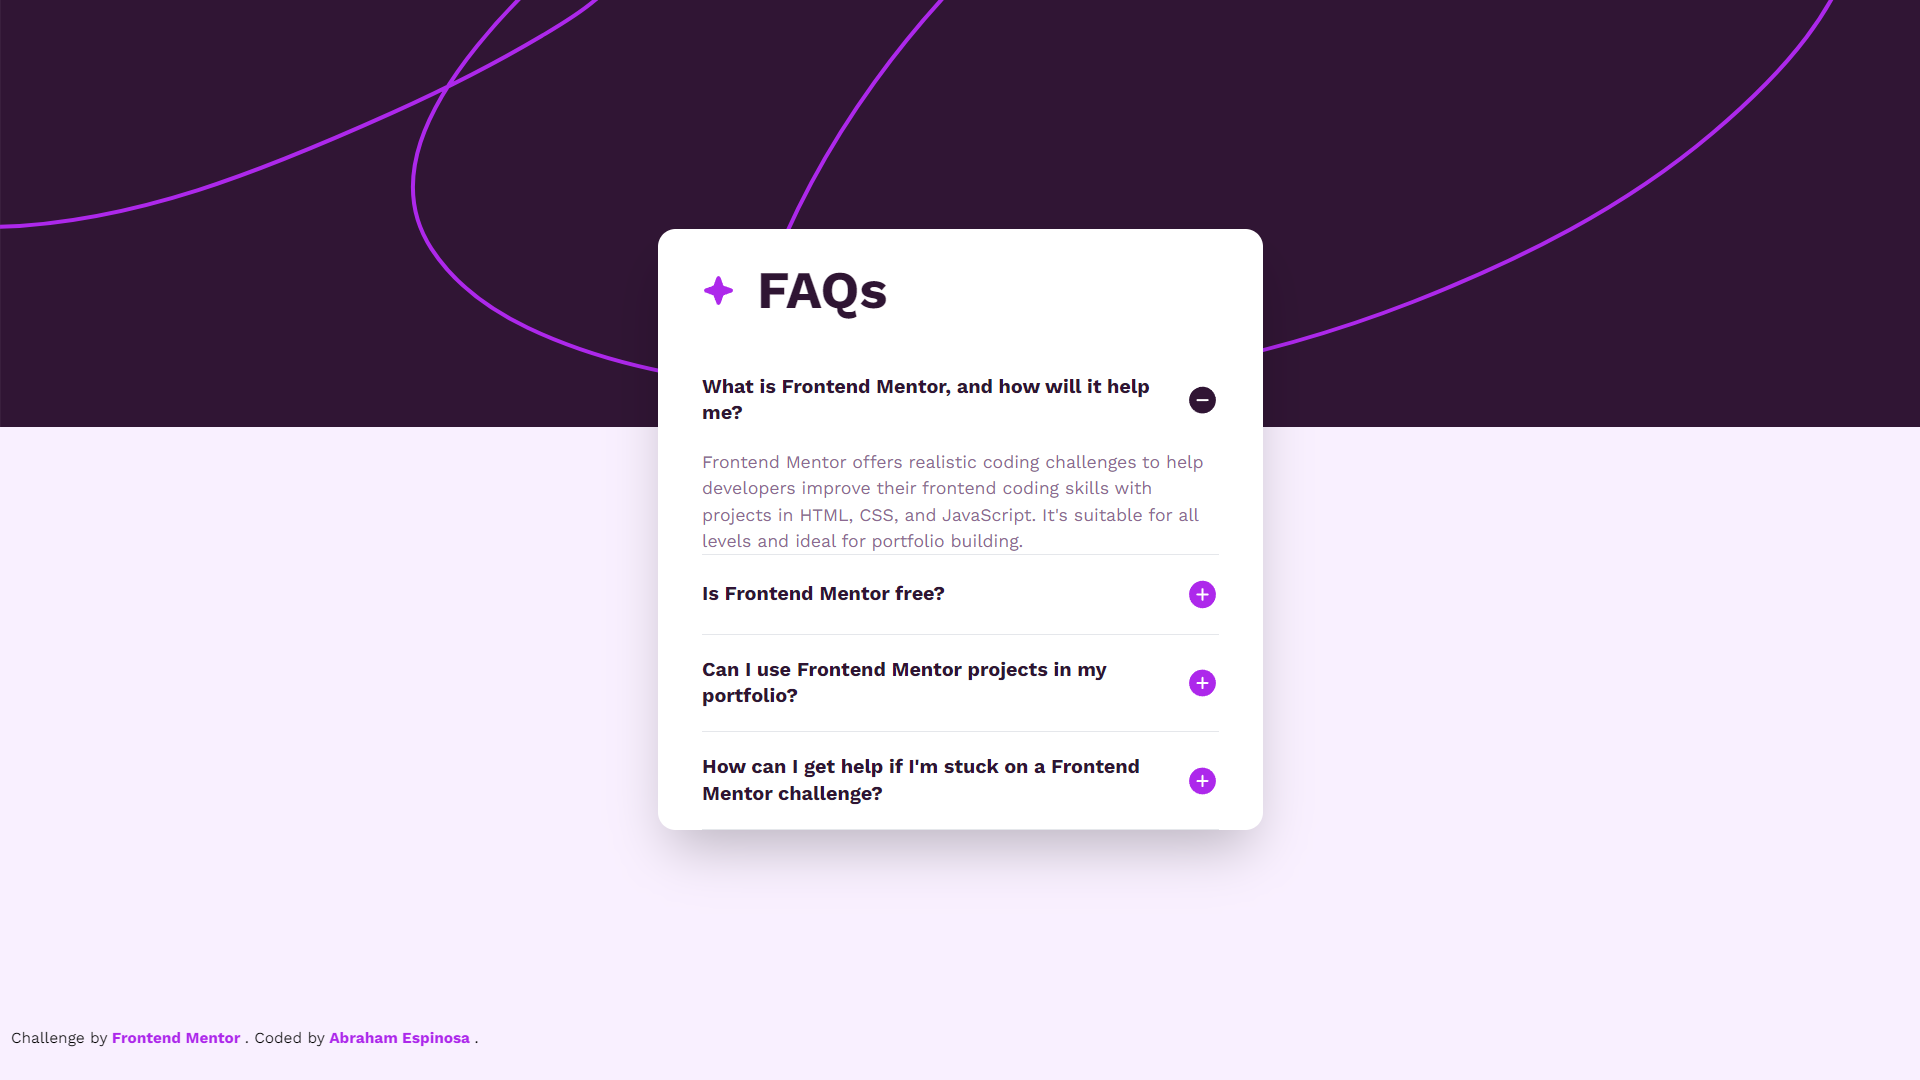
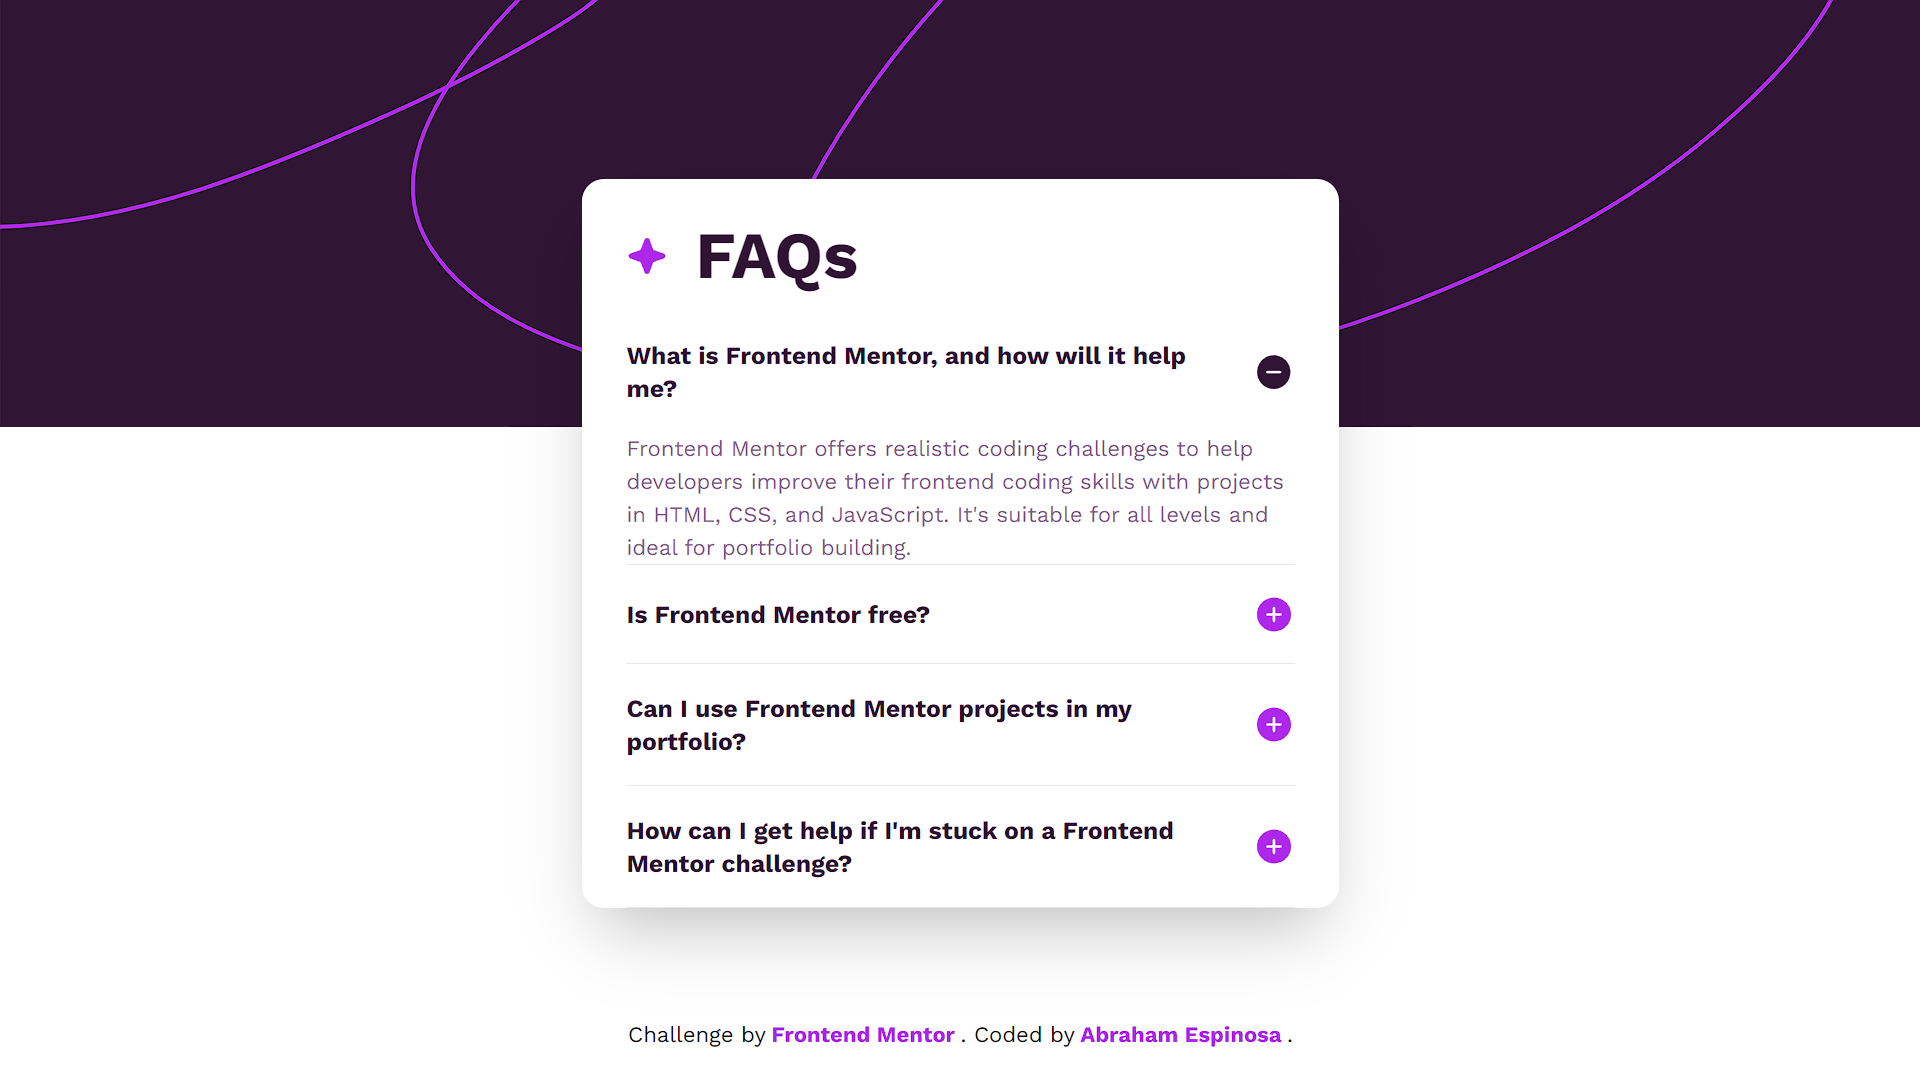
final

Changed region(s): [[0.2812, 0.1528, 0.7188, 0.8861], [0.3438, 0.9472, 0.6562, 0.9778], [0.0, 0.9472, 0.25, 0.9778]]

diff --git a/src/components/Organinsm/FaqAccordion.jsx b/src/components/Organinsm/FaqAccordion.jsx
@@ -1,6 +1,7 @@
-import { data } from '../data';
-import { HandleClick } from '../hook/handleClick';
-import AccordionItem from './Molecules/AccordionItem';
+import CardTitle from '../Molecules/CardTitle';
+import AccordionItem from '../Molecules/AccordionItem';
+import { data } from '../../data';
+import { HandleClick } from '../../hook/handleClick';
 
 const FaqAccordion = () => {
   const { isOpen, setIsOpen } = HandleClick();
@@ -10,7 +11,8 @@ const FaqAccordion = () => {
   }
   
   return (
-    <>
+    <article className='relative top-[-180px] w-[350px] m-auto md:w-[550px] bg-white rounded-2xl shadow-2xl px-8 pt-8'>
+      <CardTitle/>
       {data.map((item, index) => (
         <AccordionItem
           key={index}
@@ -20,7 +22,7 @@ const FaqAccordion = () => {
           onClick={() => handleItemClick(index)}
         />
       ))}
-    </>
+    </article>
   )
 }
 

diff --git a/src/App.jsx b/src/App.jsx
@@ -1,12 +1,14 @@
-import Container from './components/Container';
-import Header from './components/Header';
-import FaqAccordion from './components/FaqAccordion';
+import Container from './components/Organinsm/Container';
+import Header from './components/Organinsm/Header';
+import FaqAccordion from './components/Organinsm/FaqAccordion';
+import Footer from './components/Organinsm/Footer';
 
 function App() {
   return (
     <Container>
       <Header />
-      <FaqAccordion/>
+      <FaqAccordion />
+      <Footer/>
     </Container>
   )
 }

diff --git a/src/components/Organinsm/Footer.jsx b/src/components/Organinsm/Footer.jsx
@@ -1,0 +1,16 @@
+const Footer = () => {
+  return (
+    <footer className='flex flex-wrap justify-center text-base bg-lightPink'>
+      Challenge by 
+      <a className='font-bold text-[#ad28eb] px-1' href="https://www.frontendmentor.io?ref=challenge" target="_blank">
+        Frontend Mentor
+      </a>. 
+      Coded by 
+      <a className='font-bold text-[#ad28eb] px-1' href="https://github.com/AbrahamEspina">
+        Abraham Espinosa
+      </a>.
+    </footer>
+  )
+}
+
+export default Footer;

diff --git a/src/components/Organinsm/Header.jsx b/src/components/Organinsm/Header.jsx
@@ -1,0 +1,13 @@
+import BackgroundMobile from '../../assets/images/background-pattern-mobile.svg';
+import BackgroundDesktop from '../..//assets/images/background-pattern-desktop.svg';
+
+const Header = () => {
+  return(
+    <>
+      <img className='block md:hidden' src={BackgroundMobile} alt='background pattern mobile' />
+      <img className='hidden md:block' src={BackgroundDesktop} alt='background pattern desktop' />
+    </>
+  )
+}
+
+export default Header;

diff --git a/src/components/Molecules/CardTitle.jsx b/src/components/Molecules/CardTitle.jsx
@@ -1,0 +1,13 @@
+import IconStar from '../../assets/images/icon-star.svg';
+import { Title } from '../Atoms/Title';
+
+const CardTitle = () => {
+  return (
+    <header className='flex gap-[20px] mb-4'>
+      <img src={IconStar} alt='icon star logo' width={30} />
+      <Title>FAQs</Title>
+    </header>
+  )
+}
+
+export default CardTitle;

diff --git a/src/globals.css b/src/globals.css
@@ -8,3 +8,20 @@
   box-sizing: border-box;
   font-family: 'Work Sans', sans-serif;
 }
+#root{
+  height: 100%;
+}
+
+::-webkit-scrollbar {
+  width: 10px;
+}
+
+/* track */
+::-webkit-scrollbar-track {
+  background: #ccc;
+}
+
+/* handle */
+::-webkit-scrollbar-thumb {
+  background: #ad28eb;
+}

diff --git a/src/components/Organinsm/Container.jsx b/src/components/Organinsm/Container.jsx
@@ -1,0 +1,9 @@
+const Container = ({ children }) => {
+  return (
+    <main className='antialiased w-full h-screen flex flex-col justify-between bg-lightPink'>
+      {children}
+    </main>
+  )
+}
+
+export default Container;
